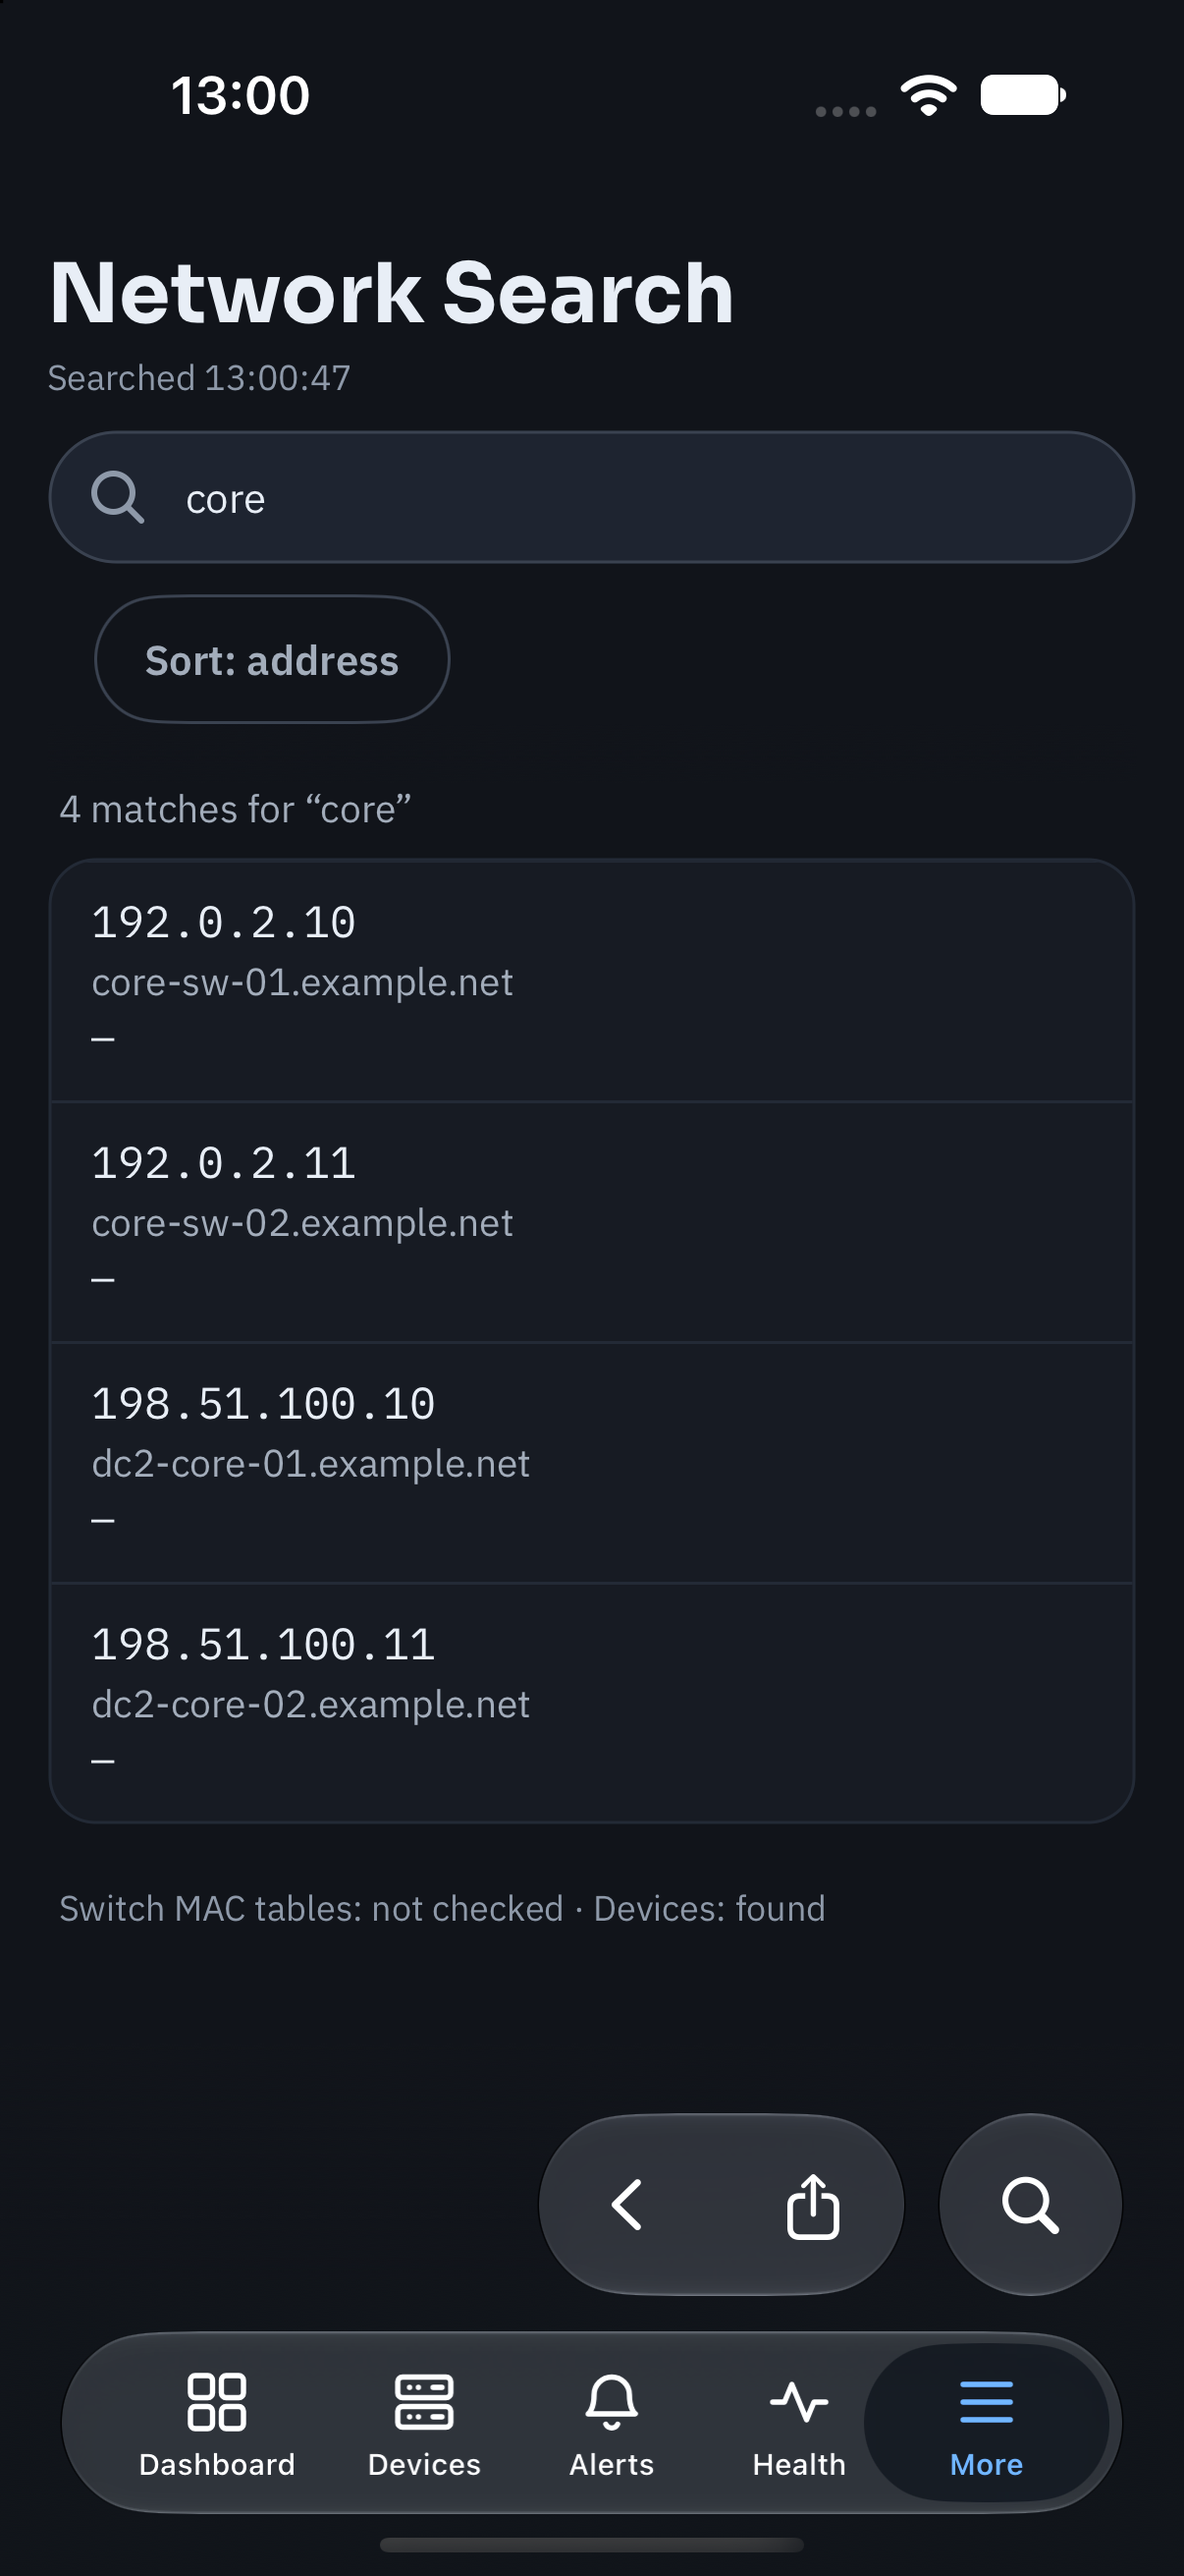
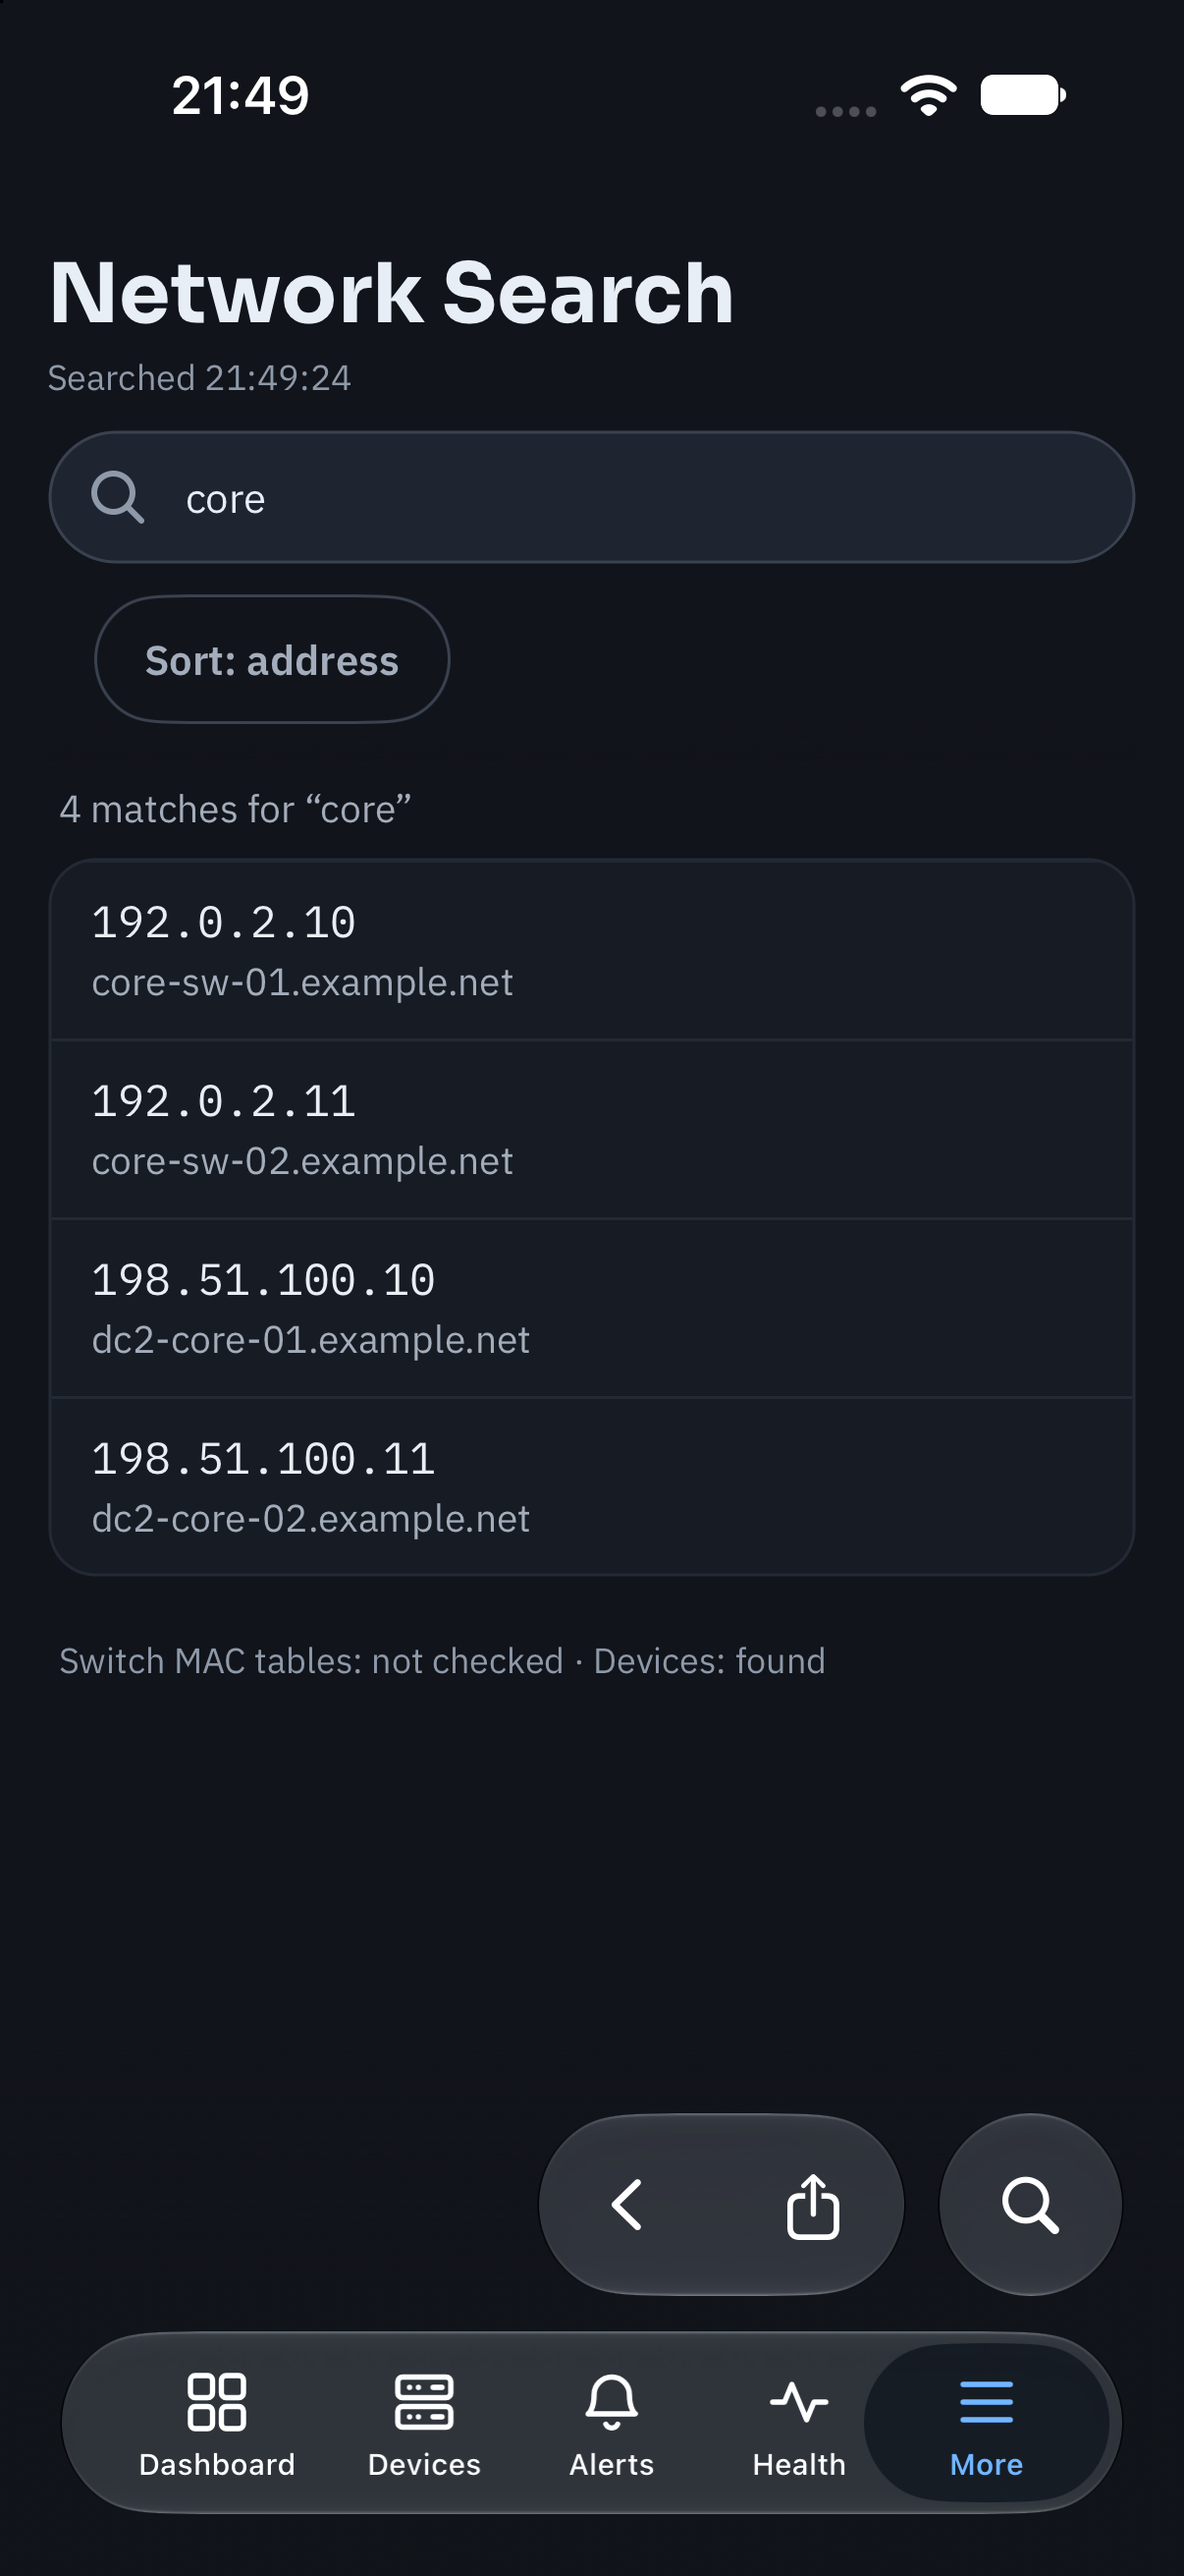
fix(search): hide empty details on Network Search rows (#723)
Closes #702

Device-only Network Search results show the address and hostname in two
lines. Rows with a MAC address or a router name still show those
details. Sorting by MAC keeps entries with no MAC at the end.

## Validation

- Ran the iOS simulator build, 2,588 shared tests, map tests, repository
policy and security checks, and wiki conversion.
- Verified Demo Mode `core` searches on iPhone 18 Pro and iPad (A16) in
landscape on iOS 27.2. The accessibility snapshots contained four named
result buttons, and a tap near the far edge of a row opened its full
result.
- Verified mixed MAC and router results on iPhone in Light mode at
maximum Dynamic Type. On iPad, `192.0.2.117` still showed port Gi1/0/19,
VLAN 20 and its MAC address.
- The Impeccable native review confirmed the two-line layout and
full-width tap targets. It also noted that the existing header and
filters leave less space for results at maximum Dynamic Type. Coverage
placement is tracked in #716.
- The maintainer accepted iPhone 18 Pro and iPad (A16) as the device
evidence for this fix. The iPhone Duo simulator’s hinge read timed out
twice.

## Simulator captures

<img
src="https://github.com/DashyNMS/mobile/blob/cb16bd19a48a8d17cb3d131f61e30ab7012939d8/docs/assets/screenshots/iphone-18-pro/26-network-search-dark.png?raw=true"
width="320" alt="Four Network Search results on iPhone 18 Pro with
addresses and hostnames in two lines">

[iPad (A16),
[…]

diff --git a/src/DashyNMS.Mobile/Pages/NetworkSearchPage.xaml b/src/DashyNMS.Mobile/Pages/NetworkSearchPage.xaml
@@ -313,8 +313,8 @@
                                             <VerticalStackLayout Spacing="2" InputTransparent="True" AutomationProperties.ExcludedWithChildren="True">
                                                 <Label Style="{StaticResource RowTitle}" Text="{Binding AddressText}" LineBreakMode="CharacterWrap" FontFamily="Mono" />
                                                 <Label Style="{StaticResource Caption}" Text="{Binding NameText}" IsVisible="{Binding HasName}" LineBreakMode="WordWrap" />
-                                                <Label Text="{Binding MacText}" FontFamily="Mono" FontSize="12.5" LineBreakMode="CharacterWrap" />
-                                                <Label Style="{StaticResource Faint}" Text="{Binding NeighbourText}" LineBreakMode="WordWrap" />
+                                                <Label Text="{Binding MacText}" IsVisible="{Binding HasMac}" FontFamily="Mono" FontSize="12.5" LineBreakMode="CharacterWrap" />
+                                                <Label Style="{StaticResource Faint}" Text="{Binding NeighbourText}" IsVisible="{Binding HasNeighbour}" LineBreakMode="WordWrap" />
                                             </VerticalStackLayout>
                                             <Label Grid.Column="1" Text="Conflict" Style="{StaticResource PillText}" IsVisible="{Binding HasConflict}" VerticalOptions="Start"
                                                    TextColor="{AppThemeBinding Light={StaticResource WarningTextLight}, Dark={StaticResource WarningTextDark}}" InputTransparent="True" />

diff --git a/src/DashyNMS.Mobile.Shared/Search/NetworkSearchItems.cs b/src/DashyNMS.Mobile.Shared/Search/NetworkSearchItems.cs
@@ -673,7 +673,7 @@ public sealed class EndpointRowViewModel
     {
         Record = record;
         AddressText = record.Addresses.Count == 0 ? "—" : string.Join(", ", record.Addresses);
-        MacText = record.Macs.Count == 0 ? "—" : string.Join(", ", record.Macs.Select(m => MacAddresses.Format(m.Hex, format)));
+        MacText = string.Join(", ", record.Macs.Select(m => MacAddresses.Format(m.Hex, format)));
         NameText = record.Names.FirstOrDefault() ?? string.Empty;
         NeighbourText = string.Join(", ", record.Neighbours
             .Select(n => EndpointViewModel.DeviceName(n.Device, n.DeviceId))
@@ -750,11 +750,15 @@ public sealed class EndpointRowViewModel
 
     public string MacText { get; }
 
+    public bool HasMac => MacText.Length > 0;
+
     public string NameText { get; }
 
     public bool HasName => NameText.Length > 0;
 
     public string NeighbourText { get; }
+
+    public bool HasNeighbour => NeighbourText.Length > 0;
 
     public bool HasConflict { get; }
 
@@ -768,7 +772,7 @@ public sealed class EndpointRowViewModel
     public RelayCommand OpenDeviceCommand { get; }
 
     /// <summary>The whole row for VoiceOver: what opening it does, then what it shows.</summary>
-    public string Description => string.Join(". ", new[] { OpenName, NameText, MacText == "—" ? null : MacText, HasConflict ? "Conflict" : null, NeighbourText }
+    public string Description => string.Join(". ", new[] { OpenName, NameText, MacText, HasConflict ? "Conflict" : null, NeighbourText }
         .Where(part => !string.IsNullOrEmpty(part)));
 
     public bool Matches(string filter) => string.IsNullOrWhiteSpace(filter)

diff --git a/tests/DashyNMS.Mobile.Shared.Tests/NetworkSearchViewModelTests.cs b/tests/DashyNMS.Mobile.Shared.Tests/NetworkSearchViewModelTests.cs
@@ -88,6 +88,42 @@ public sealed class NetworkSearchViewModelTests : IDisposable
     }
 
     [Fact]
+    public async Task Device_only_matches_omit_missing_details_and_open_in_full()
+    {
+        await _search.SearchForAsync("core");
+
+        Assert.True(_search.IsList);
+        Assert.NotEmpty(_search.Rows);
+        Assert.All(_search.Rows, row =>
+        {
+            Assert.True(row.HasName);
+            Assert.False(row.HasMac);
+            Assert.False(row.HasNeighbour);
+            Assert.Equal($"{row.OpenName}. {row.NameText}", row.Description);
+        });
+
+        await _search.Rows[0].OpenCommand.ExecuteAsync(null);
+
+        Assert.True(_search.IsSingle);
+        Assert.True(_search.Endpoint!.IsMonitored);
+    }
+
+    [Fact]
+    public async Task List_rows_show_known_macs_and_router_names_and_sort_missing_macs_last()
+    {
+        await _search.SearchForAsync("192.0.2.0/24");
+
+        var row = _search.Rows.First(r => r.HasMac && r.HasNeighbour);
+        Assert.Contains(row.MacText, row.Description, StringComparison.Ordinal);
+        Assert.Contains(row.NeighbourText, row.Description, StringComparison.Ordinal);
+        Assert.Contains(_search.Rows, r => !r.HasMac);
+
+        _search.ChooseSortCommand.Execute(SearchSort.Mac);
+
+        Assert.Equal(_search.Rows.OrderByDescending(r => r.HasMac), _search.Rows);
+    }
+
+    [Fact]
     public async Task Nothing_found_says_whether_every_source_answered()
     {
         await _search.SearchForAsync("198.51.100.250");

diff --git a/src/DashyNMS.Mobile.Shared/Search/NetworkSearchViewModel.cs b/src/DashyNMS.Mobile.Shared/Search/NetworkSearchViewModel.cs
@@ -462,7 +462,7 @@ public sealed partial class NetworkSearchViewModel : ViewModelBase, INetworkSear
         Rows = (Sort switch
         {
             SearchSort.Name => rows.OrderBy(r => r.HasName ? 0 : 1).ThenBy(r => r.NameText, NaturalOrder.Instance),
-            SearchSort.Mac => rows.OrderBy(r => r.MacText, StringComparer.OrdinalIgnoreCase),
+            SearchSort.Mac => rows.OrderByDescending(r => r.HasMac).ThenBy(r => r.MacText, StringComparer.OrdinalIgnoreCase),
             _ => rows.OrderBy(r => r.SortKey, StringComparer.Ordinal),
         }).ToList();
         OnPropertyChanged(nameof(Rows));

diff --git a/docs/guide/how-to/network-search.md b/docs/guide/how-to/network-search.md
@@ -28,6 +28,8 @@ Tap a switch, router or device to open it, or the graph button for a port's traf
 
 When several things match, or you search a network, they're listed. Tap a source chip, such as **ARP** or **MAC tables**, to hide or show what it found, and **Sort** to order them by address, name or MAC address. **+N more** shows the next page. Tap a row to see where it's connected.
 
+Rows show MAC addresses and router names when the search finds them.
+
 ## When something's missing
 
 The line at the foot of the results says which sources were checked. If a source couldn't be read, perhaps because your account isn't allowed to, the results say so: a missing answer then doesn't mean it isn't there.

diff --git a/docs/releases/2.0.0.md b/docs/releases/2.0.0.md
@@ -32,6 +32,7 @@ DashyNMS Mobile 2.0 brings Intelligence, alert groups for LibreNMS 26.10, offlin
 
 ## Fixed
 
+- **Network Search.** Device-only results omit the placeholder dash when no MAC address is available (#702).
 - **Intelligence graphs:** Attached graphs fill the answer card on iPhone and iPad (#700).
 - **Intelligence tables:** Tables fit narrow screens, linked devices and alerts show a single label, and Jump to latest stays clear of answers (#701).
 - **Schedule maintenance.** On iOS, the form scrolls above **Schedule**, keeping Notes and the discard message clear of the button and navigation controls (#698).

diff --git a/docs/assets/screenshots/README.md b/docs/assets/screenshots/README.md
@@ -4,6 +4,7 @@ Demo Mode screenshots of DashyNMS Mobile captured from `main` at commit `b512b27
 
 The iPhone 18 Pro and iPad Schedule maintenance screenshots were retaken for #698.
 The iPhone 18 Pro unreachable-devices capture and the iPad overview and unreachable-devices captures were retaken for #701.
+The iPhone 18 Pro and iPad Network Search screenshots were retaken for #702.
 
 ## Device folders
 
